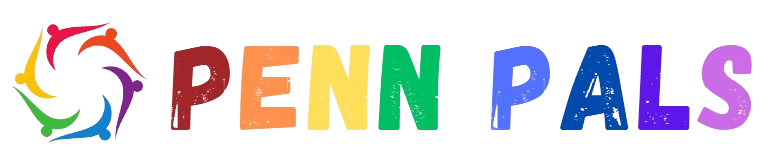
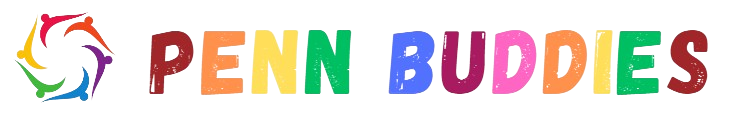
Add a proper ReadMe

diff --git a/penn-pals/src/Components/graphComponent.js b/penn-pals/src/Components/graphComponent.js
@@ -11,8 +11,7 @@ const GraphComponent = ({ userIDs }) => {
 
         const users = loadUsers();
         const allComponents = findComponents(users, userIDs);
-        connectSingleMemberComponents(allComponents); // New function call to handle single-member components
-        setComponents(allComponents);
+        connectSingleMemberComponents(allComponents);
     }, [userIDs]);
 
     const dfs = (node, visited, adjList, component) => {
@@ -54,11 +53,9 @@ const GraphComponent = ({ userIDs }) => {
     const connectSingleMemberComponents = (components) => {
         const singleMembers = components.filter(comp => comp.length === 1).flat();
         const multiMembers = components.filter(comp => comp.length > 1);
-
-        if (singleMembers.length > 1) { // Only connect if there are at least two single members
+        if (singleMembers.length > 0) { 
             multiMembers.push(singleMembers);
         }
-
         setComponents(multiMembers);
     };
 

diff --git a/penn-pals/src/Components/SearchForm.js b/penn-pals/src/Components/SearchForm.js
@@ -20,7 +20,6 @@ export default function UserFormDialog() {
     if (storedActivities) {
       setActivityGroups(JSON.parse(storedActivities));
     } else {
-      // Assuming you set up an initial data structure elsewhere in your app
       localStorage.setItem('activityGroupsData', JSON.stringify([]));
     }
   }, []);
@@ -50,7 +49,6 @@ export default function UserFormDialog() {
     console.log('Selected Activities:', selectedActivities);
     console.log('Available Days:', availableDays);
 
-    // Update activity groups data
     const updatedActivityGroups = activityGroups.map(group => {
       const newDays = {...group.Days};
       selectedActivities.forEach(activity => {
@@ -68,7 +66,6 @@ export default function UserFormDialog() {
       return {...group, Days: newDays};
     });
 
-    // Save the updated data to Local Storage
     localStorage.setItem('activityGroupsData', JSON.stringify(updatedActivityGroups));
     setOpen(false);
   };

diff --git a/penn-pals/src/Components/groupComponent.js b/penn-pals/src/Components/groupComponent.js
@@ -12,8 +12,8 @@ const styles = {
     flexDirection: 'column',
     alignItems: 'center',
     gap: '10px',
-    boxShadow: '0 4px 6px rgba(0, 0, 0, 0.3)', // Add drop shadow
-    margin: '1rem 2rem', // Add margin around the larger box
+    boxShadow: '0 4px 6px rgba(0, 0, 0, 0.3)',
+    margin: '1rem 2rem',
   },
   dayBox: {
     marginBottom: '10px',
@@ -22,7 +22,7 @@ const styles = {
     border: '1px solid #ffa500',
     borderRadius: '3px',
     backgroundColor: '#FFF8E1',
-    boxShadow: '0 2px 4px rgba(0, 0, 0, 0.3)', // Add drop shadow for inner boxes
+    boxShadow: '0 2px 4px rgba(0, 0, 0, 0.3)', 
   },
 };
 

diff --git a/penn-pals/src/Components/header.js b/penn-pals/src/Components/header.js
@@ -37,12 +37,12 @@ function Header() {
           style={{
             display: 'flex',
             justifyContent: 'center',
-            width: '22rem',
+            width: '28rem',
           }}
         >
           <img
-              src="https://i.ibb.co/jzbKcKk/pprect-removebg-preview.png"
-              alt="Penn Pals Logo"
+              src="https://i.ibb.co/Xy4hdfs/logo-rectangle-removebg-preview.png"
+              alt="Penn Buddies Logo"
               className="w-1/6 h-auto logo"
               width="w00px"
               height="70px"

diff --git a/penn-pals/src/Components/AddForm.js b/penn-pals/src/Components/AddForm.js
@@ -4,10 +4,9 @@ import {
   DialogContentText, FormControl, InputLabel, Select, MenuItem
 } from '@mui/material';
 
-// Initialize users from Local Storage or fallback to default data
 const loadUsers = () => {
   const data = localStorage.getItem('userData');
-  return data ? JSON.parse(data) : []; // Replace [] with your default users data if needed
+  return data ? JSON.parse(data) : [];
 }
 
 export default function FormDialog({ title }) {

diff --git a/penn-pals/src/App.js b/penn-pals/src/App.js
@@ -18,7 +18,6 @@ const App = () => {
       setUserData(JSON.parse(loadUserData));
       setActivityGroupsData(JSON.parse(loadActivityGroupsData));
     } else {
-      // Initialize Local Storage with default data
       localStorage.setItem('userData', JSON.stringify(defaultUserData));
       localStorage.setItem('activityGroupsData', JSON.stringify(defaultActivityGroupsData));
       setUserData(defaultUserData);

diff --git a/penn-pals/public/index.html b/penn-pals/public/index.html
@@ -24,7 +24,7 @@
       work correctly both with client-side routing and a non-root public URL.
       Learn how to configure a non-root public URL by running `npm run build`.
     -->
-    <title>React App</title>
+    <title>Penn Buddies</title>
   </head>
   <body>
     <noscript>You need to enable JavaScript to run this app.</noscript>

diff --git a/README.md b/README.md
@@ -1,1 +1,38 @@
-# PennPals
+# PennBuddies
+PennBuddies is a web app implementing social network and graph algorithms to find you a group to do any activities. Once you connect with your friends and sign up for activities and days, the app automatically groups people together based on their mutual friends and mutual interests. 
+
+## Running the Code
+
+To get set up, please first clone and set up the git repo in VS code (or whichever platform you prefer)
+```
+git clone https://github.com/dhruv575/PennPals.git
+cd PennPals
+```
+Then, to run the code, cd into penn-pals and install all necessary packages
+```
+cd penn-pals
+npm install
+```
+Once this is complete, you should be able to start your code
+```
+npm run start
+```
+At which point you will be able to view the website at: http://localhost:3000/
+
+## Interacting with the UI
+
+To get started playing around with the system, go ahead and first click on "ADD FRIENDS" in the top right corner. From here, you can add yourself and your email, and click on the Friends tab and add as many friends as you'd like. After this, click on the "JOIN ACTIVITIES" tab, choose whicever activities you would like and whichever days you are avialable, and refresh your tab. 
+
+Everytime you refresh the graph algorithms are run again. The graph algorithm works by taking all people signed up for an acitivity on a day, making a subgraph of them and their internal connections, and running a DFS to find all connected components. When this is done, we take all groups which have only 1 person and combine them into a connected component so that no one is alone (except for cases where there is only a single group of 1 person).
+
+With this in mind, you should now see yourself in groups based on 1 of 2 outcomes:
+1. You are friends with one of the people in the group and were thus placed in it
+2. You were friends with none of the people in the group and were thus placed with all other singletons
+
+You can play around more with adding more people. Currently, though, there is no delete function unfortunately, so you can not reset your own sign ups without clearing the local storage. To clear the local storage, you can
+1. Press Ctrl+shift+i
+2. Go to the Application tab
+3. Go to the Local Storage setting under Storage
+4. Right click and clear
+
+After refreshing again, it should be back to the original dataset, and you can play around again as you would like.
